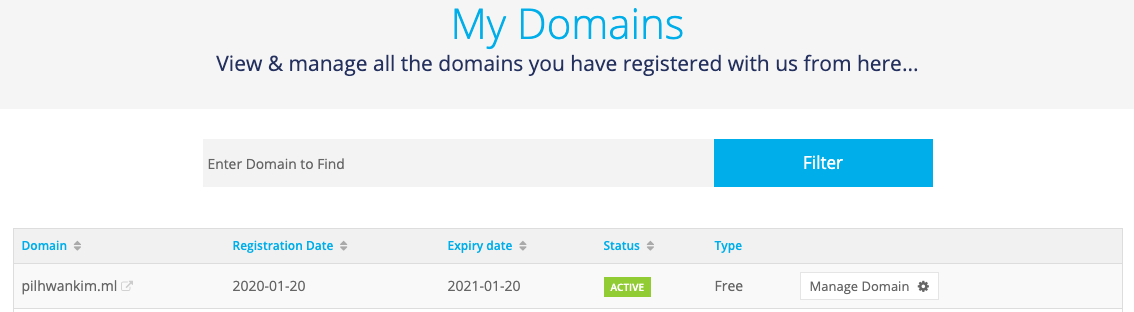
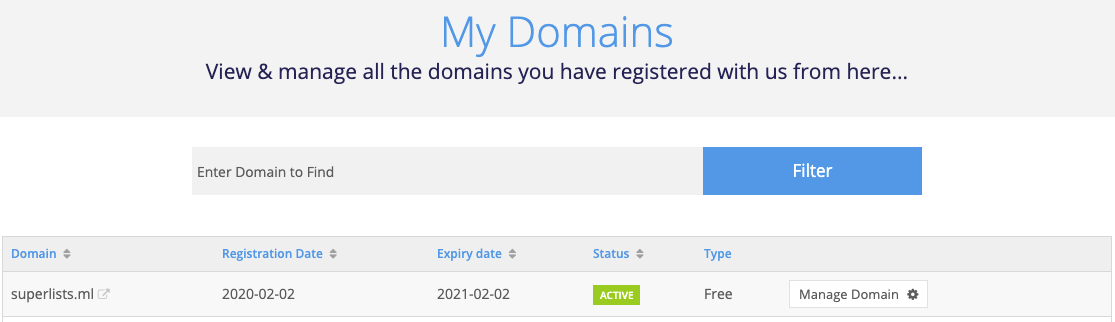
8장 스테이징 서버와 운영 서버를 위한 도메인 설정

diff --git a/test_driven_development_with_python/ch08/README.md b/test_driven_development_with_python/ch08/README.md
@@ -227,7 +227,7 @@ FAILED (failures=1, errors=1)
 
 https://freenom.com
 
-여기에서 나는 `pilhwnakim.tk` 도메인을 취득했으니 이 기준으로 진행하도록 한다.
+여기에서 나는 `superlists.ml` 도메인을 취득했으니 이 기준으로 진행하도록 한다.
 
 ![도메인을 얻기 매우 쉬움](./ch08-01.png)
 
@@ -294,14 +294,13 @@ https://aws.amazon.com/ko/premiumsupport/knowledge-center/create-linux-instance/
 
 https://victorydntmd.tistory.com/61
 
-EC2 인스턴스 생성 정보
+아래와 같이 생성하자.
+
 - AMI : Ubuntu Server 18.04 LTS (HVM), SSD Volume Type
 - Name : superlists-was
 - Security group : superlists-was-sg
   - 포트 22 - 0.0.0.0/0
   - 포트 80 - 0.0.0.0/0
-
-로 해서 생성했다.
 
 ### 사용자 계정, SSH, 권한
 
@@ -341,7 +340,7 @@ webapp@localhost:$ sudo service nginx start
 
 사이트 IP 주소로 브라우저 접속해보면 "Welcome to nginx" 페이지를 볼 수 있다.
 
-![도메인을 얻기 매우 쉬움](./ch08-02.png)
+![nginx 구동](./ch08-02.png)
 
 페이지가 계속 로딩중일 경우는 방화벽이 80포트(http) 막았기 때문일 것이다.
 
@@ -355,3 +354,23 @@ webapp@localhost:$ sudo pip3 install virtualenv
 ```
 
 ### 스테이징 서버와 운영 서버를 위한 도메인 설정
+
+외부 무료 도메인과 AWS의 EC2 와 연결하려면 AWS ROUTE53 을 통해 연동해야 한다.
+
+아래의 블로그를 보면 연동 방법이 자세이 나와 있다.
+
+https://tech.cloud.nongshim.co.kr/2018/10/16/%EC%B4%88%EB%B3%B4%EC%9E%90%EB%A5%BC-%EC%9C%84%ED%95%9C-aws-%EC%9B%B9%EA%B5%AC%EC%B6%95-8-%EB%AC%B4%EB%A3%8C-%EB%8F%84%EB%A9%94%EC%9D%B8%EC%9C%BC%EB%A1%9C-route-53-%EB%93%B1%EB%A1%9D-%EB%B0%8F-elb/
+
+1. Route 53에 외부에서 할당한 도메인을 Hosted Zone 에 등록한다.
+
+2. 그 후에 A 레코드를 특정 EC2 public ip에 연결한다.
+
+![Route 53 도메인 설정](./ch08-03.png)
+
+3. 도메인 제공 사이트로 되돌아가 Route53에서 제공하는 NameServer로 등록한다.
+
+![NameServer 등록](./ch08-04.png)
+
+4. 등록을 마치고 도메인 주소로 브라우저에서 요청하면 nginx 화면이 뜬다.
+
+![최종 연결 확인](./ch08-05.png)
